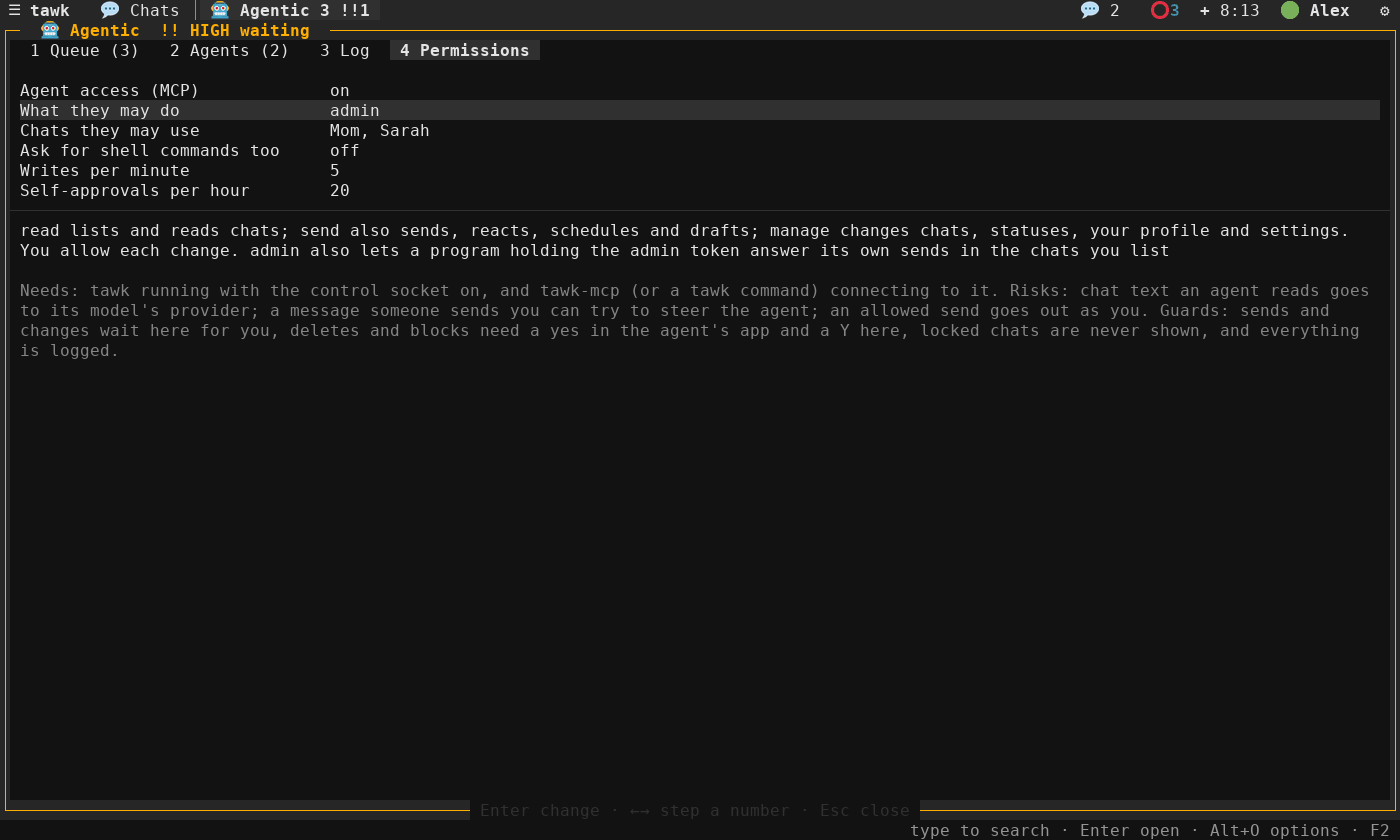
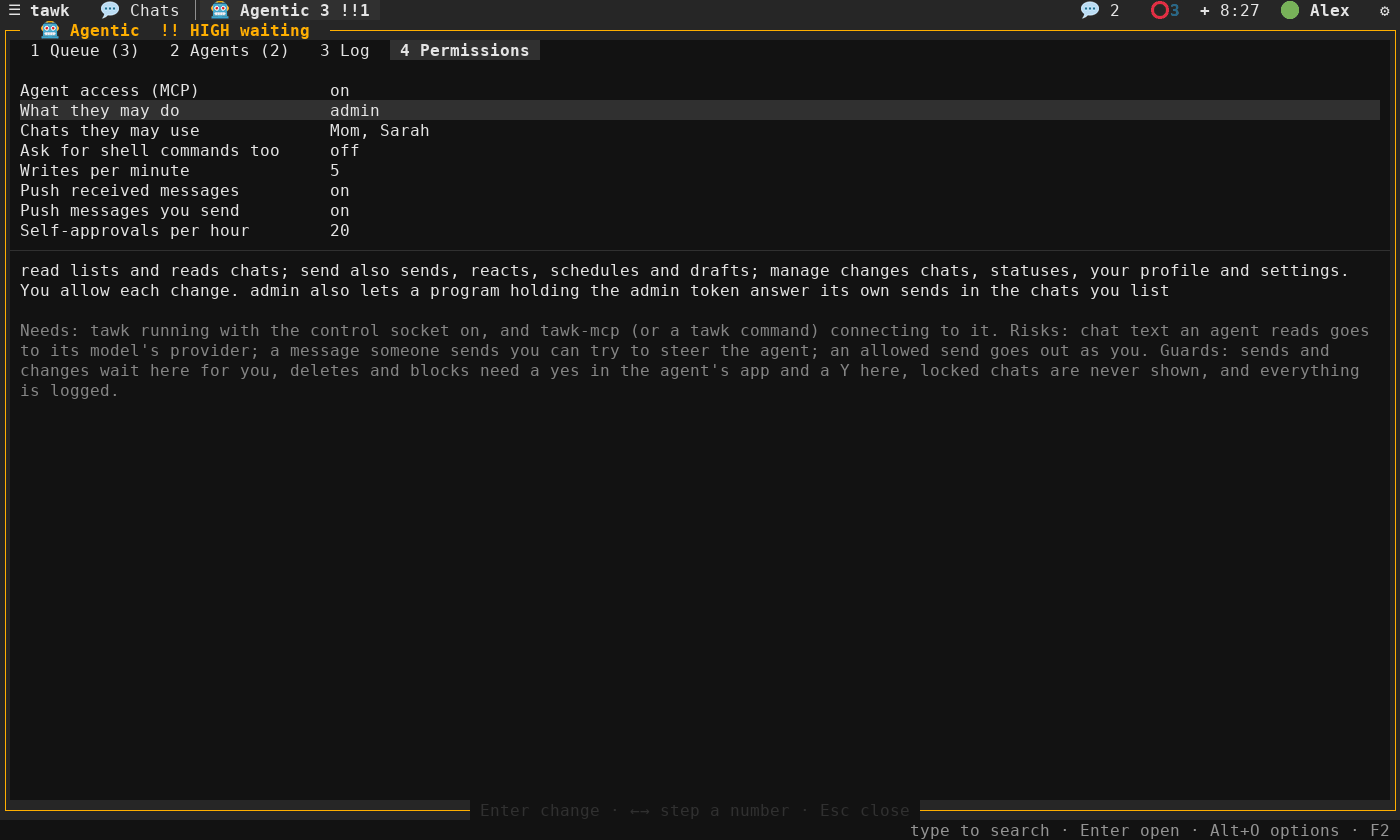
Document the push settings, with their flowchart and redrawn Permissions pictures

Changed region(s): [[0.0, 0.2167, 0.9829, 0.4643]]

diff --git a/src/core/settings_schema.c b/src/core/settings_schema.c
@@ -84,8 +84,8 @@ static const SettingField FIELDS[] = {
     S(SETTING_CATEGORY_AUTOMATION, "chats", "Chats they may use", "Names or numbers, separated by commas; empty allows every chat except locked ones", automation_chats, 0),
     B(SETTING_CATEGORY_AUTOMATION, "confirm_cli", "Ask for shell commands too", "tawk send asks first as well; programs acting for a model always ask", automation_confirm_cli),
     I(SETTING_CATEGORY_AUTOMATION, "writes_per_minute", "Writes per minute", "More than this are refused until a minute has passed", automation_rate, 1, 60, 1, 0),
-    B(SETTING_CATEGORY_AUTOMATION, "push_received", "Tell agents about new messages", "Agents that listen hear about each message other people send, as it arrives; off, they see messages only when they read a chat", automation_push_received),
-    B(SETTING_CATEGORY_AUTOMATION, "push_sent", "Tell agents about messages you send", "Agents that listen hear about each message you send too; off, they see yours only when they read a chat", automation_push_sent),
+    B(SETTING_CATEGORY_AUTOMATION, "push_received", "Push received messages", "Agents that listen hear about each message other people send, as it arrives; off, they see messages only when they read a chat", automation_push_received),
+    B(SETTING_CATEGORY_AUTOMATION, "push_sent", "Push messages you send", "Agents that listen hear about each message you send too; off, they see yours only when they read a chat", automation_push_sent),
     I(SETTING_CATEGORY_AUTOMATION, "self_approvals_per_hour", "Self-approvals per hour", "With access admin: how many of its own requests a program may answer in an hour; past this they wait for you", automation_self_per_hour, 1, 240, 1, 0),
 
     { SETTING_CATEGORY_ADVANCED, "backend", "WhatsApp backend", "whatsmeow runs in-process; baileys runs a Node.js sidecar",

diff --git a/HOW_IT_WORKS.md b/HOW_IT_WORKS.md
@@ -798,6 +798,24 @@ sequenceDiagram
     C->>AM: record(outcome)
 ```
 
+A client that subscribed hears about new messages as they arrive. `control_ops_live.c` asks the automation manager for each listener, and `automation_policy_pushes` answers from the two push settings:
+
+```mermaid
+flowchart TD
+    NEW["A new message in a chat"] --> VIS{"May agents use this chat?"}
+    VIS -- no --> DROP["Nobody is told"]
+    VIS -- yes --> EACH["For each client that subscribed to it"]
+    EACH --> ORIGIN{"Acting for a model?"}
+    ORIGIN -- "no, your own shell (tawk tail)" --> SEND["Send the message event"]
+    ORIGIN -- yes --> MINE{"Did you send it?"}
+    MINE -- yes --> PS{"Push messages you send on?"}
+    MINE -- no --> PR{"Push received messages on?"}
+    PS -- yes --> SEND
+    PR -- yes --> SEND
+    PS -- no --> SKIP["Not told; it sees the message when it reads the chat"]
+    PR -- no --> SKIP
+```
+
 With access admin a client can give that answer itself. `AutomationManager` keeps an admin token while the access setting says admin: it writes a fresh one through `IAdminTokenStore` when the control client's tick finds access at admin with none issued, and removes it when access is anything else and when tawk quits. The `approve` operation finds the caller's own waiting request, and the manager decides: `automation_policy_self_approval` checks the access, the kind of operation and that the chat is named in the chat list (an empty list allows none), the token is compared without stopping at the first difference, and the `hourly_quota` engine counts it against `self_approvals_per_hour`. When the answer is yes the request is withdrawn from the queue and carried out as if you had allowed it, logged as approved by the agent, and the manager hands the screen a line to show. When it is no the request stays in the queue for you.
 
 ```mermaid

diff --git a/CONFIGURATION.md b/CONFIGURATION.md
@@ -162,6 +162,8 @@ What other programs reaching tawk through its control socket may do: tawk-mcp an
 | `chats` | empty | Chats they may use, by name or number, comma-separated; empty means every chat except locked and soft-locked ones |
 | `confirm_cli` | `off` | Your own shell commands ask before sending too |
 | `writes_per_minute` | `5` | Writes allowed per minute (1 to 60) |
+| `push_received` | `on` | Programs acting for a model that subscribed are told about each message other people send, as it arrives. Off, they see messages only when they read a chat |
+| `push_sent` | `on` | The same for the messages you send. Your own shell commands (`tawk tail`) always hear both |
 | `self_approvals_per_hour` | `20` | With `access = admin`: requests a program may answer itself in an hour (1 to 240); past this they wait for you |
 
 None of these can be changed over the socket, nor can settings that run a program, folders, the backend or the log level.

diff --git a/MANUAL.md b/MANUAL.md
@@ -970,6 +970,8 @@ The same submenu sets how far agents may go:
 | Chats they may use | Names or numbers separated by commas; empty allows every chat except locked ones |
 | Ask for shell commands too | Your own `tawk send` asks first as well (agents always ask) |
 | Writes per minute | More are refused until a minute has passed |
+| Push received messages | On: an agent that listens (tawk-mcp's channel, say) hears about each message other people send as it arrives. Off: it sees messages only when it reads a chat |
+| Push messages you send | The same for the messages you send, from tawk or your phone. Your own `tawk tail` always shows both |
 | Self-approvals per hour | With **admin**: how many of its own requests an agent may answer in an hour (20 by default); past that they wait for you |
 
 ### The Agentic tab

diff --git a/CONTROL.md b/CONTROL.md
@@ -272,7 +272,7 @@ Your profile and the app:
 
 After `subscribe`, tawk sends:
 
-- `{"evt":"message","chat":{"jid","name"},"message":message}` for every new message, sent or received, in a subscribed chat.
+- `{"evt":"message","chat":{"jid","name"},"message":message}` for every new message, sent or received, in a subscribed chat. For a client whose origin is `mcp`, `push_received` and `push_sent` in `[automation]` decide whether received and sent messages are sent at all; origin `cli` always gets both.
 - `{"evt":"chat","chat":chat}` when a subscribed chat's unread count changes.
 - `{"evt":"bye"}` just before tawk quits.
 
